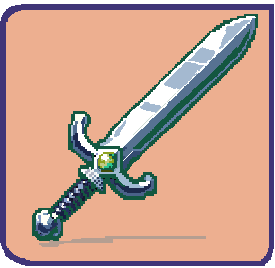
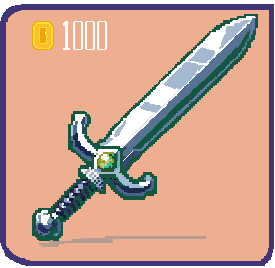
Updated the weapon buttons so they have prices and deleted sprites that we dont use

Changed region(s): [[0.2327, 0.0597, 0.4073, 0.209], [0.1164, 0.0597, 0.2036, 0.209]]

diff --git a/src/main/java/inf112/skeleton/app/view/WeaponSelection.java b/src/main/java/inf112/skeleton/app/view/WeaponSelection.java
@@ -13,6 +13,7 @@ import static inf112.skeleton.app.utils.Constants.QUIT_BUTTON;
 import static inf112.skeleton.app.utils.Constants.TREE_SWORD_BUTTON;
 import static inf112.skeleton.app.utils.Constants.WEAPON_SELECTION;
 
+
 import com.badlogic.gdx.Gdx;
 import com.badlogic.gdx.ScreenAdapter;
 import com.badlogic.gdx.graphics.GL20;
@@ -36,7 +37,7 @@ import inf112.skeleton.app.model.entities.weapons.TreeSword;
  * The GameTitleScreen class is responsible for rendering the title screen.
  * Extends {@link ScreenAdapter}.
  */
-public class WeaponSelection1 extends ScreenAdapter{
+public class WeaponSelection extends ScreenAdapter{
     private GameRenderer game;
     private GameLogic gameLogic;
     private OrthographicCamera cam;
@@ -53,7 +54,7 @@ public class WeaponSelection1 extends ScreenAdapter{
      * @param game      The game renderer instance.
      * @param gameLogic The game logic instance.
      */
-    public WeaponSelection1(GameRenderer game, GameLogic gameLogic) {
+    public WeaponSelection(GameRenderer game, GameLogic gameLogic) {
         this.game = game;
         this.gameLogic = gameLogic;
         this.batch = new SpriteBatch();

diff --git a/src/main/java/inf112/skeleton/app/utils/Constants.java b/src/main/java/inf112/skeleton/app/utils/Constants.java
@@ -148,6 +148,7 @@ public class Constants {
     public final static String TREE_SWORD_BUTTON = "Tree_Sword_Button.png";
     public final static String METAL_SWORD_BUTTON = "Red_Sword_Button.png";
     public final static String DIAMOND_SWORD_BUTTON = "Green_Sword_Button.png";
+    
 
     // GameHelpScreen
     public final static String HELP_SCREEN_BACKGROUND = "src/main/resources/gamehelpscreen/helpbackground.png";

diff --git a/src/main/java/inf112/skeleton/app/view/GameActiveScreen.java b/src/main/java/inf112/skeleton/app/view/GameActiveScreen.java
@@ -129,7 +129,7 @@ public class GameActiveScreen extends ScreenAdapter {
         weaponSelectionButton.addListener(new ClickListener() {
             @Override
             public void clicked(InputEvent event, float x, float y) {
-                game.setScreen(new WeaponSelection1(game, gameLogic));
+                game.setScreen(new WeaponSelection(game, gameLogic));
             }
         });
     }

diff --git a/src/main/java/inf112/skeleton/app/model/GameLogic.java b/src/main/java/inf112/skeleton/app/model/GameLogic.java
@@ -168,7 +168,7 @@ public class GameLogic implements CollisionCallBack {
     private void initializeEntities() {
         initializePlayer();
         initializeEnemies();
-        initializeWeapon(new MetalSword(world));
+        initializeWeapon(new TreeSword(world));
         initializeCoins();
     }
 
